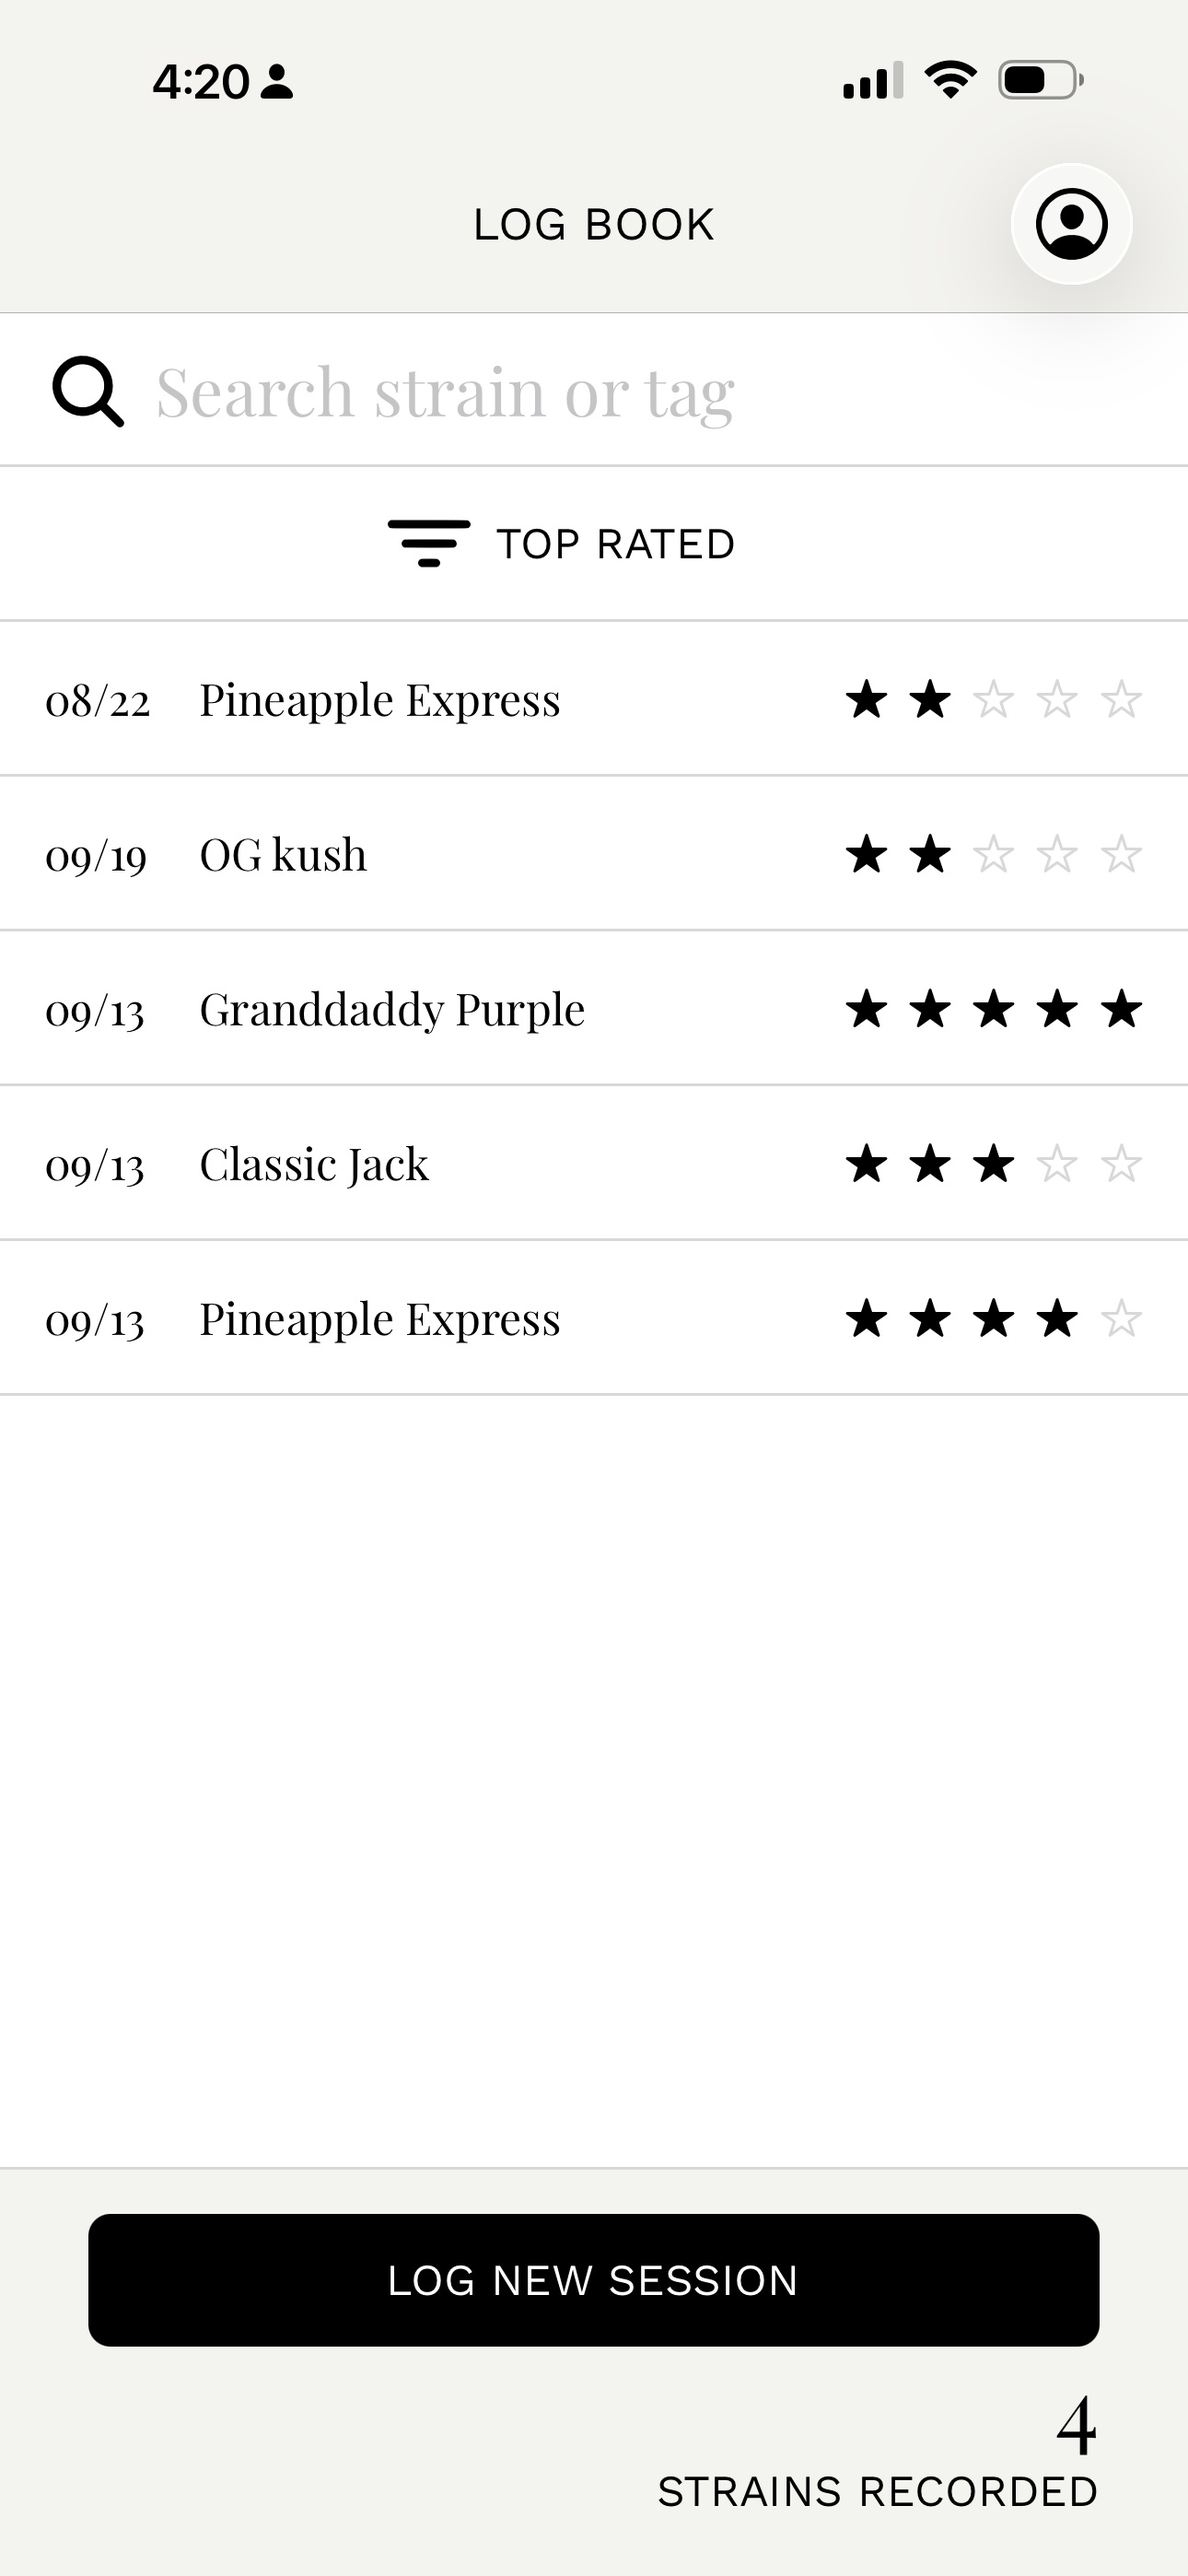
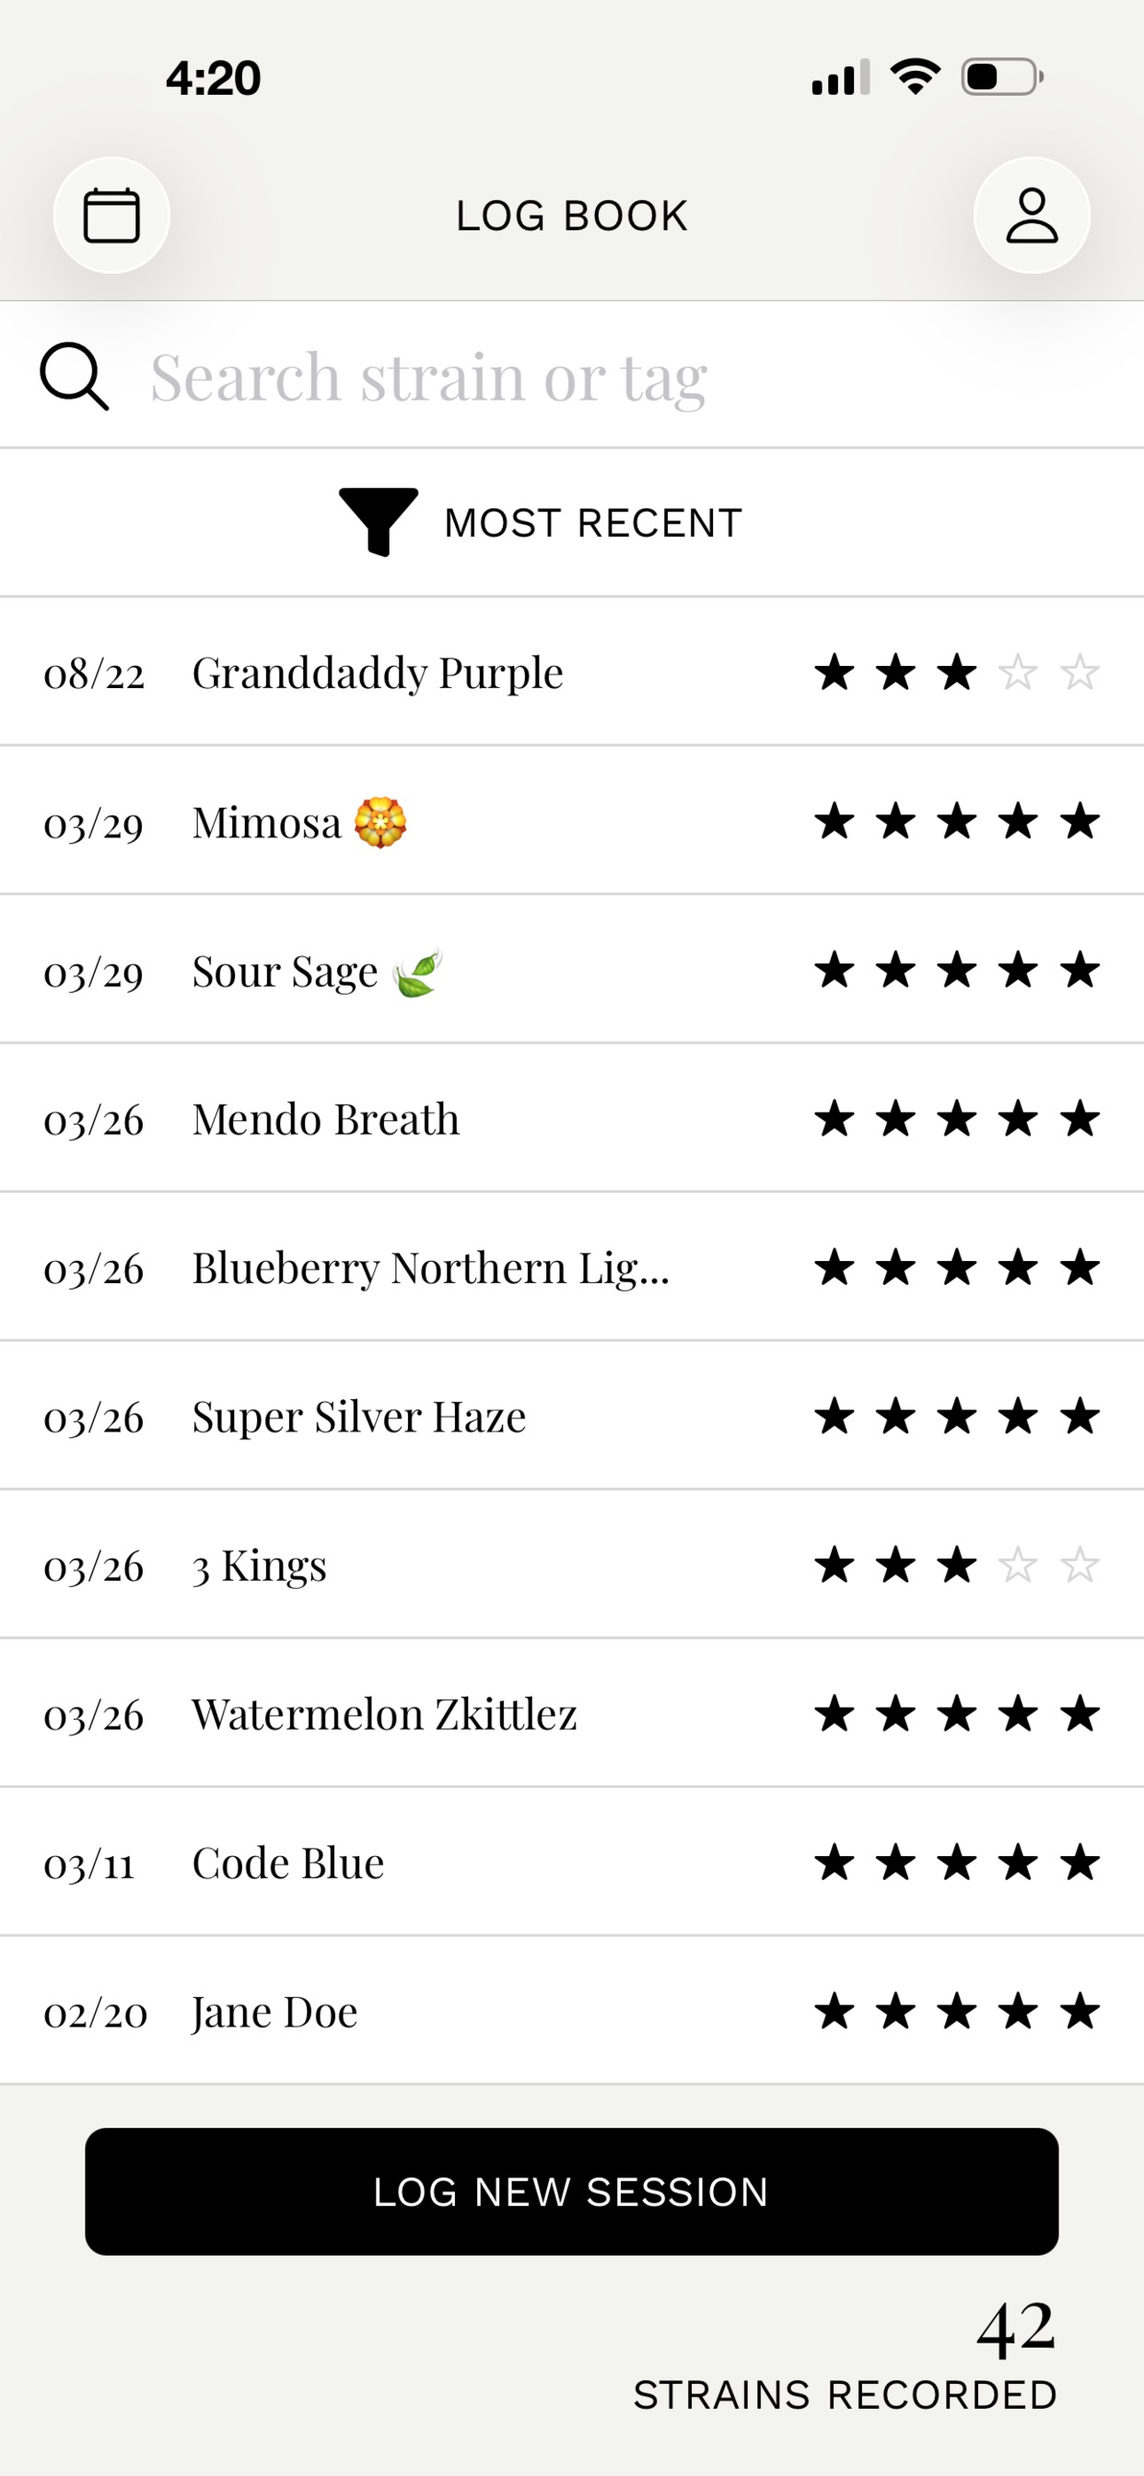
Refresh README screenshots for the current UI
Replaces the old screenshots with current ones (updated header icons,
instant-signup login screen). The third slot was mislabeled
log-new-session.jpeg but actually showed a completed log's detail
view, not the logging form - renamed to view-log.jpeg with matching
alt text.

diff --git a/README.md b/README.md
@@ -5,5 +5,5 @@ Become your own cannabis expert.
 <p align="center">
   <img src="docs/screenshots/signup-login.jpeg" width="30%" alt="Sign up / log in landing screen" />
   <img src="docs/screenshots/home.jpeg" width="30%" alt="Home screen showing a log book of past sessions" />
-  <img src="docs/screenshots/log-new-session.jpeg" width="30%" alt="Logging a new session with mood and tag ratings" />
+  <img src="docs/screenshots/view-log.jpeg" width="30%" alt="Viewing a logged session's ratings and tags" />
 </p>
